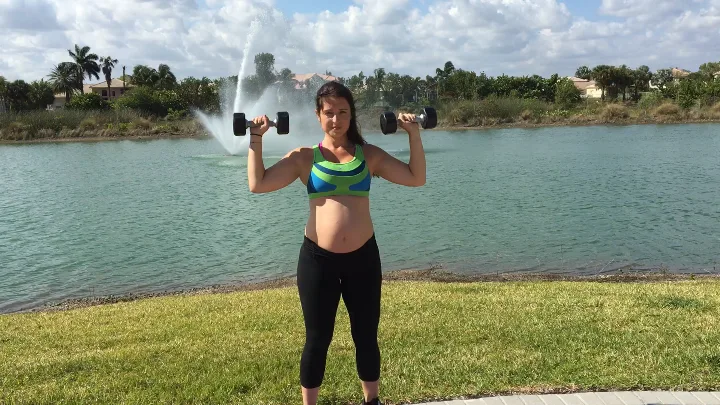
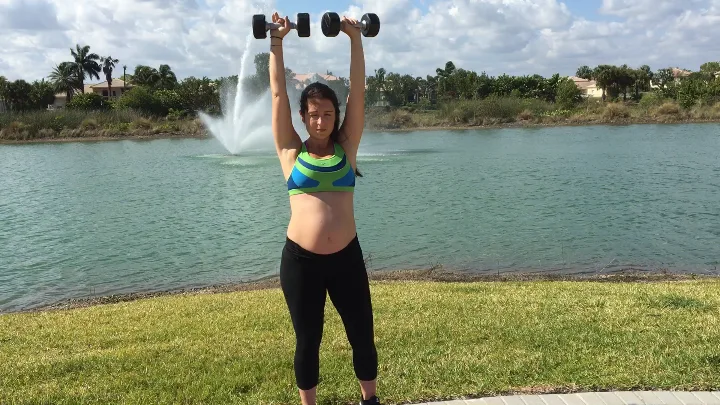
Fix shoulder press start and end order
Claude-Session: https://claude.ai/code/session_019NggvjEPge2rGtzqsfs9WF

diff --git a/tools/review.html b/tools/review.html
@@ -1,1 +1,1 @@
-<meta charset='utf-8'><title>Start and end photos</title><style>body{font:15px system-ui;margin:24px}.r{margin-bottom:28px}.r img{width:48%;margin-right:2%;border-radius:8px}code{color:#d6307a}</style><h1>Check every pair</h1><p>Left is the start position, right is the end. Fix any wrong pair in tools/overrides.json.</p><div class="r"><h3>Step-ups With Hip Flexion <code>mx-hwFO6Nik</code> <small>14.0s → 15.0s</small></h3><img src="../images/mx-hwFO6Nik-start.webp"><img src="../images/mx-hwFO6Nik-end.webp"></div><div class="r"><h3>Plie Squat <code>Mywk7zS_We4</code> <small>9.0s → 11.0s</small></h3><img src="../images/Mywk7zS_We4-start.webp"><img src="../images/Mywk7zS_We4-end.webp"></div><div class="r"><h3>Push-ups <code>Q7ZR1xWH-mI</code> <small>3.0s → 4.0s</small></h3><img src="../images/Q7ZR1xWH-mI-start.webp"><img src="../images/Q7ZR1xWH-mI-end.webp"></div><div class="r"><h3>Cable Presses <code>SZjQls3qRBQ</code> <small>3.8s → 8.2s</small></h3><img src="../images/SZjQls3qRBQ-start.webp"><img src="../images/SZjQls3qRBQ-end.webp"></div><div class="r"><h3>Deadlifts <code>q8RHLWKgRqY</code> <small>4.3s → 6.0s</small></h3><img src="../images/q8RHLWKgRqY-start.webp"><img src="../images/q8RHLWKgRqY-end.webp"></div><div class="r"><h3>Standing Single Leg Curl <code>aah0EyOHpXw</code> <small>4.0s → 7.8s</small></h3><img src="../images/aah0EyOHpXw-start.webp"><img src="../images/aah0EyOHpXw-end.webp"></div><div class="r"><h3>Cable Rows <code>MRdO7Py--Rk</code> <small>10.5s → 11.5s</small></h3><img src="../images/MRdO7Py--Rk-start.webp"><img src="../images/MRdO7Py--Rk-end.webp"></div><div class="r"><h3>Cable High Rows <code>eWc9NhClP68</code> <small>12.5s → 13.5s</small></h3><img src="../images/eWc9NhClP68-start.webp"><img src="../images/eWc9NhClP68-end.webp"></div><div class="r"><h3>Front Raises <code>D3eIIeP0RcY</code> <small>5.0s → 6.5s</small></h3><img src="../images/D3eIIeP0RcY-start.webp"><img src="../images/D3eIIeP0RcY-end.webp"></div><div class="r"><h3>Lateral Raises <code>XAsfEvsmSDg</code> <small>2.3s → 6.5s</small></h3><img src="../images/XAsfEvsmSDg-start.webp"><img src="../images/XAsfEvsmSDg-end.webp"></div><div class="r"><h3>Stationary Lunges <code>bLZPKMxGQ2o</code> <small>4.2s → 7.2s</small></h3><img src="../images/bLZPKMxGQ2o-start.webp"><img src="../images/bLZPKMxGQ2o-end.webp"></div><div class="r"><h3>Stability ball Leg Curls <code>XAYfZo9RJPY</code> <small>7.0s → 2.2s</small></h3><img src="../images/XAYfZo9RJPY-start.webp"><img src="../images/XAYfZo9RJPY-end.webp"></div><div class="r"><h3>Bent over Dumbbell Rows <code>p1XtX2cVNZc</code> <small>3.8s → 6.7s</small></h3><img src="../images/p1XtX2cVNZc-start.webp"><img src="../images/p1XtX2cVNZc-end.webp"></div><div class="r"><h3>Bent over Dumbbell High Rows <code>b-BYZkIZwPQ</code> <small>13.8s → 15.0s</small></h3><img src="../images/b-BYZkIZwPQ-start.webp"><img src="../images/b-BYZkIZwPQ-end.webp"></div><div class="r"><h3>Reverse Lunges with hip flexion <code>6JMzQ2D9LDQ</code> <small>18.0s → 19.2s</small></h3><img src="../images/6JMzQ2D9LDQ-start.webp"><img src="../images/6JMzQ2D9LDQ-end.webp"></div><div class="r"><h3>Leg Extension <code>VIt03PSoH34</code> <small>8.0s → 9.5s</small></h3><img src="../images/VIt03PSoH34-start.webp"><img src="../images/VIt03PSoH34-end.webp"></div><div class="r"><h3>Cable Incline Presses <code>iwwNXr0cSbI</code> <small>3.8s → 8.2s</small></h3><img src="../images/iwwNXr0cSbI-start.webp"><img src="../images/iwwNXr0cSbI-end.webp"></div><div class="r"><h3>Cable fly <code>b964joHYGw0</code> <small>6.7s → 2.2s</small></h3><img src="../images/b964joHYGw0-start.webp"><img src="../images/b964joHYGw0-end.webp"></div><div class="r"><h3>Stability Ball Hip Extension <code>ZxgZ7J5r8Sw</code> <small>7.0s → 8.5s</small></h3><img src="../images/ZxgZ7J5r8Sw-start.webp"><img src="../images/ZxgZ7J5r8Sw-end.webp"></div><div class="r"><h3>Straight Arm Pulldown <code>Qjk3y42nTBg</code> <small>2.3s → 6.8s</small></h3><img src="../images/Qjk3y42nTBg-start.webp"><img src="../images/Qjk3y42nTBg-end.webp"></div><div class="r"><h3>Upright Rows <code>3Sc_BEMB14I</code> <small>4.3s → 5.2s</small></h3><img src="../images/3Sc_BEMB14I-start.webp"><img src="../images/3Sc_BEMB14I-end.webp"></div><div class="r"><h3>Dumbbell Squat <code>6CbpPRbbDb8</code> <small>2.0s → 4.5s</small></h3><img src="../images/6CbpPRbbDb8-start.webp"><img src="../images/6CbpPRbbDb8-end.webp"></div><div class="r"><h3>Wall Push-ups <code>WQEr9Sf3Mqk</code> <small>7.0s → 8.0s</small></h3><img src="../images/WQEr9Sf3Mqk-start.webp"><img src="../images/WQEr9Sf3Mqk-end.webp"></div><div class="r"><h3>Dumbbell rear delt extensions <code>pPCVBdkVQe0</code> <small>2.8s → 7.5s</small></h3><img src="../images/pPCVBdkVQe0-start.webp"><img src="../images/pPCVBdkVQe0-end.webp"></div><div class="r"><h3>Lateral Lunges With Hip Flexion <code>j6PWWcyeUno</code> <small>2.3s → 6.3s</small></h3><img src="../images/j6PWWcyeUno-start.webp"><img src="../images/j6PWWcyeUno-end.webp"></div><div class="r"><h3>Cable Decline fly <code>uYYaYF420Uk</code> <small>8.2s → 9.2s</small></h3><img src="../images/uYYaYF420Uk-start.webp"><img src="../images/uYYaYF420Uk-end.webp"></div><div class="r"><h3>Supine Stability Ball Single Leg Hip Extensions <code>3swvJ_oGOx4</code> <small>2.5s → 3.2s</small></h3><img src="../images/3swvJ_oGOx4-start.webp"><img src="../images/3swvJ_oGOx4-end.webp"></div><div class="r"><h3>Lat Pulldowns <code>HkHOXxm9d4I</code> <small>9.8s → 10.8s</small></h3><img src="../images/HkHOXxm9d4I-start.webp"><img src="../images/HkHOXxm9d4I-end.webp"></div><div class="r"><h3>Dumbbell Reverse Flys <code>Iz7ym9Zu6vY</code> <small>5.0s → 6.0s</small></h3><img src="../images/Iz7ym9Zu6vY-start.webp"><img src="../images/Iz7ym9Zu6vY-end.webp"></div><div class="r"><h3>Bowlers <code>hYDdcmwFUY8</code> <small>10.5s → 15.0s</small></h3><img src="../images/hYDdcmwFUY8-start.webp"><img src="../images/hYDdcmwFUY8-end.webp"></div><div class="r"><h3>Supine Stability Ball Hip extensions Both legs down <code>NRT9m0Ni65o</code> <small>2.5s → 6.3s</small></h3><img src="../images/NRT9m0Ni65o-start.webp"><img src="../images/NRT9m0Ni65o-end.webp"></div><div class="r"><h3>Rope Overhead extensions <code>Vtc9jfIdgMQ</code> <small>16.8s → 17.5s</small></h3><img src="../images/Vtc9jfIdgMQ-start.webp"><img src="../images/Vtc9jfIdgMQ-end.webp"></div><div class="r"><h3>Rope Pulldowns <code>MN8TSbqwAOM</code> <small>7.0s → 2.2s</small></h3><img src="../images/MN8TSbqwAOM-start.webp"><img src="../images/MN8TSbqwAOM-end.webp"></div><div class="r"><h3>Dumbbell Hammer Curls <code>iJcMgzNCkV0</code> <small>12.5s → 13.8s</small></h3><img src="../images/iJcMgzNCkV0-start.webp"><img src="../images/iJcMgzNCkV0-end.webp"></div><div class="r"><h3>Dumbbell Overhead extensions <code>uicoxUY-unM</code> <small>4.3s → 2.2s</small></h3><img src="../images/uicoxUY-unM-start.webp"><img src="../images/uicoxUY-unM-end.webp"></div><div class="r"><h3>Dips <code>RdnPNgzKTSU</code> <small>3.3s → 5.5s</small></h3><img src="../images/RdnPNgzKTSU-start.webp"><img src="../images/RdnPNgzKTSU-end.webp"></div><div class="r"><h3>DB shoulder press Neutral grip <code>7FcLkHdf4Js</code> <small>3.2s → 8.0s</small></h3><img src="../images/7FcLkHdf4Js-start.webp"><img src="../images/7FcLkHdf4Js-end.webp"></div><div class="r"><h3>Tricep pulldown Underhand grip <code>Byr6dH1c0S4</code> <small>12.5s → 13.5s</small></h3><img src="../images/Byr6dH1c0S4-start.webp"><img src="../images/Byr6dH1c0S4-end.webp"></div><div class="r"><h3>Dumbbell Tricep Kickbacks <code>esCBtaMbKg8</code> <small>2.8s → 6.8s</small></h3><img src="../images/esCBtaMbKg8-start.webp"><img src="../images/esCBtaMbKg8-end.webp"></div><div class="r"><h3>Stability Ball Single Leg Hip Extension <code>PL83c9P1TYM</code> <small>9.8s → 5.0s</small></h3><img src="../images/PL83c9P1TYM-start.webp"><img src="../images/PL83c9P1TYM-end.webp"></div><div class="r"><h3>Stability Ball Single Leg Curl <code>IIU529JnoZQ</code> <small>50.0s → 52.5s</small></h3><img src="../images/IIU529JnoZQ-start.webp"><img src="../images/IIU529JnoZQ-end.webp"></div><div class="r"><h3>Cable bicep curl <code>uNKYHNCl07I</code> <small>11.0s → 12.5s</small></h3><img src="../images/uNKYHNCl07I-start.webp"><img src="../images/uNKYHNCl07I-end.webp"></div><div class="r"><h3>Dumbbell Bicep Curls <code>WbuvVZAbhPY</code> <small>12.5s → 13.8s</small></h3><img src="../images/WbuvVZAbhPY-start.webp"><img src="../images/WbuvVZAbhPY-end.webp"></div><div class="r"><h3>Seated or Standing Decline Cable Press <code>rDquo3Hbo3k</code> <small>3.0s → 4.0s</small></h3><img src="../images/rDquo3Hbo3k-start.webp"><img src="../images/rDquo3Hbo3k-end.webp"></div><div class="r"><h3>Dumbbell Shoulder Presses <code>nj0FUHY7rko</code> <small>2.0s → 3.0s</small></h3><img src="../images/nj0FUHY7rko-start.webp"><img src="../images/nj0FUHY7rko-end.webp"></div><div class="r"><h3>Plank <code>CE3Tt5IGOXk</code> <small>3.0s → 16.0s</small></h3><img src="../images/CE3Tt5IGOXk-start.webp"><img src="../images/CE3Tt5IGOXk-end.webp"></div><div class="r"><h3>Triceps Kickback (underhand grip) Drop Set <code>IvXGVym4t_Y</code> <small>52.4s → 55.0s</small></h3><img src="../images/IvXGVym4t_Y-start.webp"><img src="../images/IvXGVym4t_Y-end.webp"></div><div class="r"><h3>CAT <code>96_WMj_P_2M</code> <small>2.5s → 4.0s</small></h3><img src="../images/96_WMj_P_2M-start.webp"><img src="../images/96_WMj_P_2M-end.webp"></div><div class="r"><h3>Dumbbell Straight Arm Pulldowns <code>C-9m7oaYs0M</code> <small>2.0s → 1.5s</small></h3><img src="../images/C-9m7oaYs0M-start.webp"><img src="../images/C-9m7oaYs0M-end.webp"></div><div class="r"><h3>Single Leg Squats <code>CN4AyMsLts4</code> <small>2.8s → 6.2s</small></h3><img src="../images/CN4AyMsLts4-start.webp"><img src="../images/CN4AyMsLts4-end.webp"></div><div class="r"><h3>Dumbbell Kickbacks <code>0WtcBgPcHYs</code> <small>2.8s → 6.8s</small></h3><img src="../images/0WtcBgPcHYs-start.webp"><img src="../images/0WtcBgPcHYs-end.webp"></div><div class="r"><h3>Bulgarian Split Squats <code>p64l50X9lec</code> <small>2.2s → 5.3s</small></h3><img src="../images/p64l50X9lec-start.webp"><img src="../images/p64l50X9lec-end.webp"></div><div class="r"><h3>Single Leg Hip extension On Toes <code>My0l8iRhH_w</code> <small>2.5s → 3.2s</small></h3><img src="../images/My0l8iRhH_w-start.webp"><img src="../images/My0l8iRhH_w-end.webp"></div><div class="r"><h3>Quadruped Straight Leg Kicks <code>Xqo_6MaC0qY</code> <small>33.2s → 35.9s</small></h3><img src="../images/Xqo_6MaC0qY-start.webp"><img src="../images/Xqo_6MaC0qY-end.webp"></div><div class="r"><h3>Side Kicks <code>57V67yN3nh4</code> <small>3.5s → 3.0s</small></h3><img src="../images/57V67yN3nh4-start.webp"><img src="../images/57V67yN3nh4-end.webp"></div><div class="r"><h3>Rope Bicep Curls <code>l57iQfIG44Y</code> <small>2.0s → 2.5s</small></h3><img src="../images/l57iQfIG44Y-start.webp"><img src="../images/l57iQfIG44Y-end.webp"></div><div class="r"><h3>Up UP Down Down <code>bPhRJDMpCrU</code> <small>8.0s → 16.0s</small></h3><img src="../images/bPhRJDMpCrU-start.webp"><img src="../images/bPhRJDMpCrU-end.webp"></div><div class="r"><h3>Arm Raises <code>BnAjbBXgNIc</code> <small>4.3s → 8.8s</small></h3><img src="../images/BnAjbBXgNIc-start.webp"><img src="../images/BnAjbBXgNIc-end.webp"></div><div class="r"><h3>Single leg Reaches <code>WVfg-Hizz50</code> <small>3.3s → 6.0s</small></h3><img src="../images/WVfg-Hizz50-start.webp"><img src="../images/WVfg-Hizz50-end.webp"></div>
+<meta charset='utf-8'><title>Start and end photos</title><style>body{font:15px system-ui;margin:24px}.r{margin-bottom:28px}.r img{width:48%;margin-right:2%;border-radius:8px}code{color:#d6307a}</style><h1>Check every pair</h1><p>Left is the start position, right is the end. Fix any wrong pair in tools/overrides.json.</p><div class="r"><h3>Step-ups With Hip Flexion <code>mx-hwFO6Nik</code> <small>14.0s → 15.0s</small></h3><img src="../images/mx-hwFO6Nik-start.webp"><img src="../images/mx-hwFO6Nik-end.webp"></div><div class="r"><h3>Plie Squat <code>Mywk7zS_We4</code> <small>9.0s → 11.0s</small></h3><img src="../images/Mywk7zS_We4-start.webp"><img src="../images/Mywk7zS_We4-end.webp"></div><div class="r"><h3>Push-ups <code>Q7ZR1xWH-mI</code> <small>3.0s → 4.0s</small></h3><img src="../images/Q7ZR1xWH-mI-start.webp"><img src="../images/Q7ZR1xWH-mI-end.webp"></div><div class="r"><h3>Cable Presses <code>SZjQls3qRBQ</code> <small>3.8s → 8.2s</small></h3><img src="../images/SZjQls3qRBQ-start.webp"><img src="../images/SZjQls3qRBQ-end.webp"></div><div class="r"><h3>Deadlifts <code>q8RHLWKgRqY</code> <small>4.3s → 6.0s</small></h3><img src="../images/q8RHLWKgRqY-start.webp"><img src="../images/q8RHLWKgRqY-end.webp"></div><div class="r"><h3>Standing Single Leg Curl <code>aah0EyOHpXw</code> <small>4.0s → 7.8s</small></h3><img src="../images/aah0EyOHpXw-start.webp"><img src="../images/aah0EyOHpXw-end.webp"></div><div class="r"><h3>Cable Rows <code>MRdO7Py--Rk</code> <small>10.5s → 11.5s</small></h3><img src="../images/MRdO7Py--Rk-start.webp"><img src="../images/MRdO7Py--Rk-end.webp"></div><div class="r"><h3>Cable High Rows <code>eWc9NhClP68</code> <small>12.5s → 13.5s</small></h3><img src="../images/eWc9NhClP68-start.webp"><img src="../images/eWc9NhClP68-end.webp"></div><div class="r"><h3>Front Raises <code>D3eIIeP0RcY</code> <small>5.0s → 6.5s</small></h3><img src="../images/D3eIIeP0RcY-start.webp"><img src="../images/D3eIIeP0RcY-end.webp"></div><div class="r"><h3>Lateral Raises <code>XAsfEvsmSDg</code> <small>2.3s → 6.5s</small></h3><img src="../images/XAsfEvsmSDg-start.webp"><img src="../images/XAsfEvsmSDg-end.webp"></div><div class="r"><h3>Stationary Lunges <code>bLZPKMxGQ2o</code> <small>4.2s → 7.2s</small></h3><img src="../images/bLZPKMxGQ2o-start.webp"><img src="../images/bLZPKMxGQ2o-end.webp"></div><div class="r"><h3>Stability ball Leg Curls <code>XAYfZo9RJPY</code> <small>7.0s → 2.2s</small></h3><img src="../images/XAYfZo9RJPY-start.webp"><img src="../images/XAYfZo9RJPY-end.webp"></div><div class="r"><h3>Bent over Dumbbell Rows <code>p1XtX2cVNZc</code> <small>3.8s → 6.7s</small></h3><img src="../images/p1XtX2cVNZc-start.webp"><img src="../images/p1XtX2cVNZc-end.webp"></div><div class="r"><h3>Bent over Dumbbell High Rows <code>b-BYZkIZwPQ</code> <small>13.8s → 15.0s</small></h3><img src="../images/b-BYZkIZwPQ-start.webp"><img src="../images/b-BYZkIZwPQ-end.webp"></div><div class="r"><h3>Reverse Lunges with hip flexion <code>6JMzQ2D9LDQ</code> <small>18.0s → 19.2s</small></h3><img src="../images/6JMzQ2D9LDQ-start.webp"><img src="../images/6JMzQ2D9LDQ-end.webp"></div><div class="r"><h3>Leg Extension <code>VIt03PSoH34</code> <small>8.0s → 9.5s</small></h3><img src="../images/VIt03PSoH34-start.webp"><img src="../images/VIt03PSoH34-end.webp"></div><div class="r"><h3>Cable Incline Presses <code>iwwNXr0cSbI</code> <small>3.8s → 8.2s</small></h3><img src="../images/iwwNXr0cSbI-start.webp"><img src="../images/iwwNXr0cSbI-end.webp"></div><div class="r"><h3>Cable fly <code>b964joHYGw0</code> <small>6.7s → 2.2s</small></h3><img src="../images/b964joHYGw0-start.webp"><img src="../images/b964joHYGw0-end.webp"></div><div class="r"><h3>Stability Ball Hip Extension <code>ZxgZ7J5r8Sw</code> <small>7.0s → 8.5s</small></h3><img src="../images/ZxgZ7J5r8Sw-start.webp"><img src="../images/ZxgZ7J5r8Sw-end.webp"></div><div class="r"><h3>Straight Arm Pulldown <code>Qjk3y42nTBg</code> <small>2.3s → 6.8s</small></h3><img src="../images/Qjk3y42nTBg-start.webp"><img src="../images/Qjk3y42nTBg-end.webp"></div><div class="r"><h3>Upright Rows <code>3Sc_BEMB14I</code> <small>4.3s → 5.2s</small></h3><img src="../images/3Sc_BEMB14I-start.webp"><img src="../images/3Sc_BEMB14I-end.webp"></div><div class="r"><h3>Dumbbell Squat <code>6CbpPRbbDb8</code> <small>2.0s → 4.5s</small></h3><img src="../images/6CbpPRbbDb8-start.webp"><img src="../images/6CbpPRbbDb8-end.webp"></div><div class="r"><h3>Wall Push-ups <code>WQEr9Sf3Mqk</code> <small>7.0s → 8.0s</small></h3><img src="../images/WQEr9Sf3Mqk-start.webp"><img src="../images/WQEr9Sf3Mqk-end.webp"></div><div class="r"><h3>Dumbbell rear delt extensions <code>pPCVBdkVQe0</code> <small>2.8s → 7.5s</small></h3><img src="../images/pPCVBdkVQe0-start.webp"><img src="../images/pPCVBdkVQe0-end.webp"></div><div class="r"><h3>Lateral Lunges With Hip Flexion <code>j6PWWcyeUno</code> <small>2.3s → 6.3s</small></h3><img src="../images/j6PWWcyeUno-start.webp"><img src="../images/j6PWWcyeUno-end.webp"></div><div class="r"><h3>Cable Decline fly <code>uYYaYF420Uk</code> <small>8.2s → 9.2s</small></h3><img src="../images/uYYaYF420Uk-start.webp"><img src="../images/uYYaYF420Uk-end.webp"></div><div class="r"><h3>Supine Stability Ball Single Leg Hip Extensions <code>3swvJ_oGOx4</code> <small>2.5s → 3.2s</small></h3><img src="../images/3swvJ_oGOx4-start.webp"><img src="../images/3swvJ_oGOx4-end.webp"></div><div class="r"><h3>Lat Pulldowns <code>HkHOXxm9d4I</code> <small>9.8s → 10.8s</small></h3><img src="../images/HkHOXxm9d4I-start.webp"><img src="../images/HkHOXxm9d4I-end.webp"></div><div class="r"><h3>Dumbbell Reverse Flys <code>Iz7ym9Zu6vY</code> <small>5.0s → 6.0s</small></h3><img src="../images/Iz7ym9Zu6vY-start.webp"><img src="../images/Iz7ym9Zu6vY-end.webp"></div><div class="r"><h3>Bowlers <code>hYDdcmwFUY8</code> <small>10.5s → 15.0s</small></h3><img src="../images/hYDdcmwFUY8-start.webp"><img src="../images/hYDdcmwFUY8-end.webp"></div><div class="r"><h3>Supine Stability Ball Hip extensions Both legs down <code>NRT9m0Ni65o</code> <small>2.5s → 6.3s</small></h3><img src="../images/NRT9m0Ni65o-start.webp"><img src="../images/NRT9m0Ni65o-end.webp"></div><div class="r"><h3>Rope Overhead extensions <code>Vtc9jfIdgMQ</code> <small>16.8s → 17.5s</small></h3><img src="../images/Vtc9jfIdgMQ-start.webp"><img src="../images/Vtc9jfIdgMQ-end.webp"></div><div class="r"><h3>Rope Pulldowns <code>MN8TSbqwAOM</code> <small>7.0s → 2.2s</small></h3><img src="../images/MN8TSbqwAOM-start.webp"><img src="../images/MN8TSbqwAOM-end.webp"></div><div class="r"><h3>Dumbbell Hammer Curls <code>iJcMgzNCkV0</code> <small>12.5s → 13.8s</small></h3><img src="../images/iJcMgzNCkV0-start.webp"><img src="../images/iJcMgzNCkV0-end.webp"></div><div class="r"><h3>Dumbbell Overhead extensions <code>uicoxUY-unM</code> <small>4.3s → 2.2s</small></h3><img src="../images/uicoxUY-unM-start.webp"><img src="../images/uicoxUY-unM-end.webp"></div><div class="r"><h3>Dips <code>RdnPNgzKTSU</code> <small>3.3s → 5.5s</small></h3><img src="../images/RdnPNgzKTSU-start.webp"><img src="../images/RdnPNgzKTSU-end.webp"></div><div class="r"><h3>DB shoulder press Neutral grip <code>7FcLkHdf4Js</code> <small>3.2s → 8.0s</small></h3><img src="../images/7FcLkHdf4Js-start.webp"><img src="../images/7FcLkHdf4Js-end.webp"></div><div class="r"><h3>Tricep pulldown Underhand grip <code>Byr6dH1c0S4</code> <small>12.5s → 13.5s</small></h3><img src="../images/Byr6dH1c0S4-start.webp"><img src="../images/Byr6dH1c0S4-end.webp"></div><div class="r"><h3>Dumbbell Tricep Kickbacks <code>esCBtaMbKg8</code> <small>2.8s → 6.8s</small></h3><img src="../images/esCBtaMbKg8-start.webp"><img src="../images/esCBtaMbKg8-end.webp"></div><div class="r"><h3>Stability Ball Single Leg Hip Extension <code>PL83c9P1TYM</code> <small>9.8s → 5.0s</small></h3><img src="../images/PL83c9P1TYM-start.webp"><img src="../images/PL83c9P1TYM-end.webp"></div><div class="r"><h3>Stability Ball Single Leg Curl <code>IIU529JnoZQ</code> <small>50.0s → 52.5s</small></h3><img src="../images/IIU529JnoZQ-start.webp"><img src="../images/IIU529JnoZQ-end.webp"></div><div class="r"><h3>Cable bicep curl <code>uNKYHNCl07I</code> <small>11.0s → 12.5s</small></h3><img src="../images/uNKYHNCl07I-start.webp"><img src="../images/uNKYHNCl07I-end.webp"></div><div class="r"><h3>Dumbbell Bicep Curls <code>WbuvVZAbhPY</code> <small>12.5s → 13.8s</small></h3><img src="../images/WbuvVZAbhPY-start.webp"><img src="../images/WbuvVZAbhPY-end.webp"></div><div class="r"><h3>Seated or Standing Decline Cable Press <code>rDquo3Hbo3k</code> <small>3.0s → 4.0s</small></h3><img src="../images/rDquo3Hbo3k-start.webp"><img src="../images/rDquo3Hbo3k-end.webp"></div><div class="r"><h3>Dumbbell Shoulder Presses <code>nj0FUHY7rko</code> <small>3.0s → 2.0s</small></h3><img src="../images/nj0FUHY7rko-start.webp"><img src="../images/nj0FUHY7rko-end.webp"></div><div class="r"><h3>Plank <code>CE3Tt5IGOXk</code> <small>3.0s → 16.0s</small></h3><img src="../images/CE3Tt5IGOXk-start.webp"><img src="../images/CE3Tt5IGOXk-end.webp"></div><div class="r"><h3>Triceps Kickback (underhand grip) Drop Set <code>IvXGVym4t_Y</code> <small>52.4s → 55.0s</small></h3><img src="../images/IvXGVym4t_Y-start.webp"><img src="../images/IvXGVym4t_Y-end.webp"></div><div class="r"><h3>CAT <code>96_WMj_P_2M</code> <small>2.5s → 4.0s</small></h3><img src="../images/96_WMj_P_2M-start.webp"><img src="../images/96_WMj_P_2M-end.webp"></div><div class="r"><h3>Dumbbell Straight Arm Pulldowns <code>C-9m7oaYs0M</code> <small>2.0s → 1.5s</small></h3><img src="../images/C-9m7oaYs0M-start.webp"><img src="../images/C-9m7oaYs0M-end.webp"></div><div class="r"><h3>Single Leg Squats <code>CN4AyMsLts4</code> <small>2.8s → 6.2s</small></h3><img src="../images/CN4AyMsLts4-start.webp"><img src="../images/CN4AyMsLts4-end.webp"></div><div class="r"><h3>Dumbbell Kickbacks <code>0WtcBgPcHYs</code> <small>2.8s → 6.8s</small></h3><img src="../images/0WtcBgPcHYs-start.webp"><img src="../images/0WtcBgPcHYs-end.webp"></div><div class="r"><h3>Bulgarian Split Squats <code>p64l50X9lec</code> <small>2.2s → 5.3s</small></h3><img src="../images/p64l50X9lec-start.webp"><img src="../images/p64l50X9lec-end.webp"></div><div class="r"><h3>Single Leg Hip extension On Toes <code>My0l8iRhH_w</code> <small>2.5s → 3.2s</small></h3><img src="../images/My0l8iRhH_w-start.webp"><img src="../images/My0l8iRhH_w-end.webp"></div><div class="r"><h3>Quadruped Straight Leg Kicks <code>Xqo_6MaC0qY</code> <small>33.2s → 35.9s</small></h3><img src="../images/Xqo_6MaC0qY-start.webp"><img src="../images/Xqo_6MaC0qY-end.webp"></div><div class="r"><h3>Side Kicks <code>57V67yN3nh4</code> <small>3.5s → 3.0s</small></h3><img src="../images/57V67yN3nh4-start.webp"><img src="../images/57V67yN3nh4-end.webp"></div><div class="r"><h3>Rope Bicep Curls <code>l57iQfIG44Y</code> <small>2.0s → 2.5s</small></h3><img src="../images/l57iQfIG44Y-start.webp"><img src="../images/l57iQfIG44Y-end.webp"></div><div class="r"><h3>Up UP Down Down <code>bPhRJDMpCrU</code> <small>8.0s → 16.0s</small></h3><img src="../images/bPhRJDMpCrU-start.webp"><img src="../images/bPhRJDMpCrU-end.webp"></div><div class="r"><h3>Arm Raises <code>BnAjbBXgNIc</code> <small>4.3s → 8.8s</small></h3><img src="../images/BnAjbBXgNIc-start.webp"><img src="../images/BnAjbBXgNIc-end.webp"></div><div class="r"><h3>Single leg Reaches <code>WVfg-Hizz50</code> <small>3.3s → 6.0s</small></h3><img src="../images/WVfg-Hizz50-start.webp"><img src="../images/WVfg-Hizz50-end.webp"></div>
